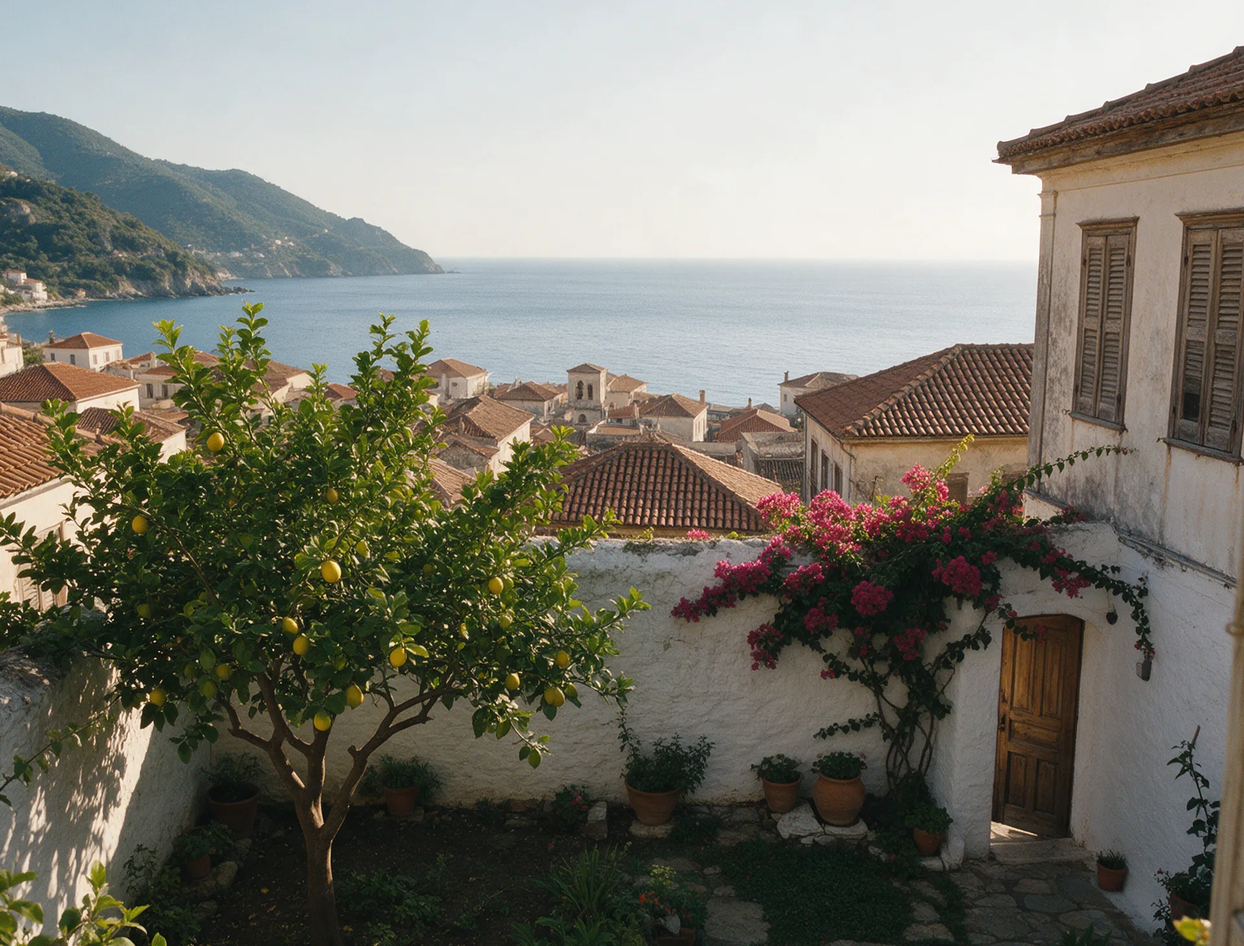
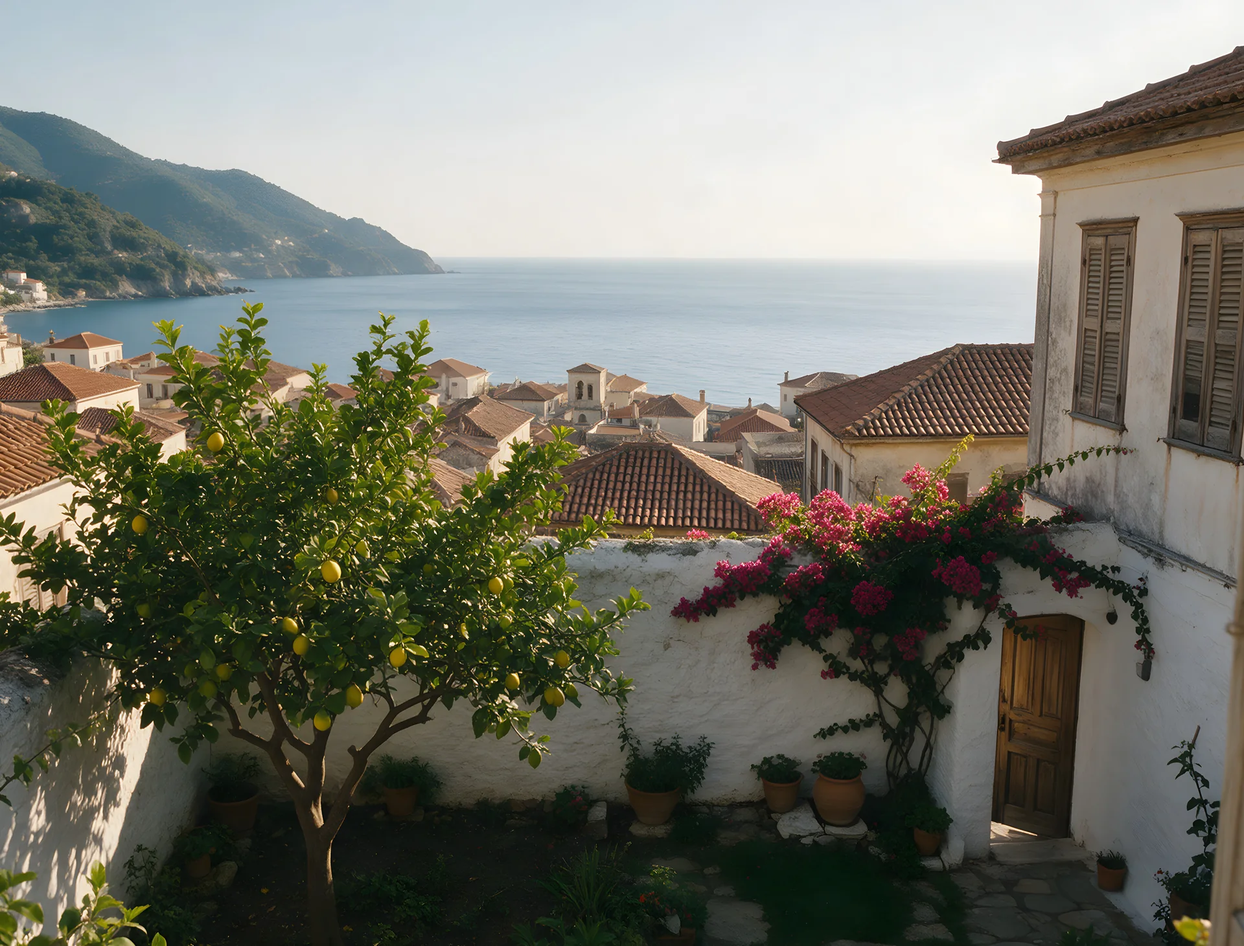
Redesign: smoother, slower window scenes and a 4K view
- 07:00 act 4.2 to 5.6 vh, 22:00 act 1.7 to 2.8 vh
- Sine easing, and the shutters and push follow a time-smoothed progress
  so each scroll notch glides instead of stepping
- Hero view upscaled to 3840 px (Recraft Crisp Upscale); 1920 px for
  small low-density screens; night view regraded from the 4K source

diff --git a/index.html b/index.html
@@ -13,6 +13,7 @@
 <link href="https://fonts.googleapis.com/css2?family=Cormorant+Garamond:ital,wght@0,300;0,400;0,500;1,300;1,400&family=Jost:wght@300;400;500;600&family=Noto+Serif+Display:ital,wght@0,300;0,400;1,300;1,400&family=Manrope:wght@300;400;500;600&display=swap" rel="stylesheet">
 <link rel="preload" as="image" href="assets/window-bare.webp" media="(min-aspect-ratio: 9/10)">
 <link rel="preload" as="image" href="assets/window-bare-p.webp" media="(max-aspect-ratio: 9/10)">
+<link rel="preload" as="image" href="assets/view-4k.webp" media="(min-width: 861px), (min-resolution: 1.5dppx)">
 <link rel="stylesheet" href="scrollcraft.css">
 <style>
   /* Brand guidelines, not taste: Warm White ground, Estate Brown titles,
@@ -131,6 +132,13 @@
     background: center / cover no-repeat;
     will-change: transform;
   }
+  /* 4K by default; small, low-density screens get the 1920 file */
+  .rig__view--day   { background-image: url(assets/view-4k.webp); }
+  .rig__view--night { background-image: url(assets/view-night-4k.webp); }
+  @media (max-width: 860px) and (max-resolution: 1.5dppx) {
+    .rig__view--day   { background-image: url(assets/view.webp); }
+    .rig__view--night { background-image: url(assets/view-night.webp); }
+  }
   .rig {
     position: absolute; left: 0; top: 0; z-index: 2;
     transform-origin: 0 0; will-change: transform, opacity;
@@ -179,7 +187,7 @@
     box-shadow: var(--sc-e2);
     /* driven off the act's progress, not a cue: it is the ground under the
        line, so it arrives before the text and leaves after it */
-    opacity: min(clamp(0, calc((var(--sc-p, 0) - 0.62) * 14), 1), clamp(0, calc((1 - var(--sc-p, 0)) * 25), 1));
+    opacity: min(clamp(0, calc((var(--sc-p, 0) - 0.68) * 14), 1), clamp(0, calc((1 - var(--sc-p, 0)) * 25), 1));
   }
   @media (prefers-reduced-motion: reduce) { .hero__plate { opacity: 1; } }
   .hero__beat-text { position: relative; z-index: 1; }
@@ -413,9 +421,9 @@
   <!-- 07:00 · FIRST LIGHT. The peak. Closed shutters, then they open under
        the hand and the room gives way to the garden and the sea. -->
   <section id="first-light" data-room-key="room.first" class="hero" data-hour="07:00"
-           data-sc-act="pin" data-sc-span="4.2" data-sc-drift="#FAF7F2">
+           data-sc-act="pin" data-sc-span="5.6" data-sc-drift="#FAF7F2">
     <div data-sc-stage class="rig-stage" data-rig="open">
-      <div class="rig__view" style="background-image:url(assets/view.webp)" aria-hidden="true"></div>
+      <div class="rig__view rig__view--day" aria-hidden="true"></div>
       <div class="rig" aria-hidden="true">
         <div class="rig__leaves"><div class="leaf leaf--l"></div><div class="leaf leaf--r"></div></div>
         <picture class="rig__frame">
@@ -434,7 +442,7 @@
 
       <div class="hero__beat">
         <div class="hero__plate" aria-hidden="true"></div>
-        <div class="hero__beat-text" data-sc-cue="0.66 0.94 0.1 0.1">
+        <div class="hero__beat-text" data-sc-cue="0.72 0.96 0.08 0.08">
           <span class="hour" data-i18n="beat.hour">Karlovasi, morning</span>
           <p data-i18n="beat.line">The garden first, then the sea.</p>
         </div>
@@ -557,9 +565,9 @@
 
   <!-- 22:00 · GOOD NIGHT. The shutters close again. -->
   <section id="night" data-room-key="room.night" class="night" data-hour="22:00" data-ground="night"
-           data-sc-act="pin" data-sc-span="1.7">
+           data-sc-act="pin" data-sc-span="2.8">
     <div data-sc-stage class="rig-stage" data-rig="close">
-      <div class="rig__view" style="background-image:url(assets/view-night.webp)" aria-hidden="true"></div>
+      <div class="rig__view rig__view--night" aria-hidden="true"></div>
       <div class="rig" aria-hidden="true">
         <div class="rig__leaves"><div class="leaf leaf--l"></div><div class="leaf leaf--r"></div></div>
         <picture class="rig__frame">
@@ -662,7 +670,8 @@
 
   var clamp = function (v, a, b) { return Math.min(b, Math.max(a, v)); };
   var seg = function (p, a, b) { return clamp((p - a) / (b - a), 0, 1); };
-  var ease = function (t) { return t < .5 ? 4 * t * t * t : 1 - Math.pow(-2 * t + 2, 3) / 2; };
+  /* sine in-out: gentle at both ends, no sudden middle */
+  var ease = function (t) { return -(Math.cos(Math.PI * t) - 1) / 2; };
 
   function Rig(stage) {
     this.stage = stage;
@@ -702,18 +711,26 @@
     this.last = -1;
   };
   Rig.prototype.frame = function () {
-    var p = parseFloat(this.act.style.getPropertyValue('--sc-p')) || 0;
-    if (reduce) p = this.mode === 'open' ? 0.5 : 0.8;   /* a still, complete composition */
-    if (Math.abs(p - this.last) < 0.0004) return;
+    var target = parseFloat(this.act.style.getPropertyValue('--sc-p')) || 0;
+    if (reduce) target = this.mode === 'open' ? 0.5 : 0.8;   /* a still, complete composition */
+    /* The scroll arrives in notches. Ease the drawn progress toward it
+       (time-based, ~0.2s to settle) so the shutters and the push glide. */
+    var now = performance.now(), dt = Math.min(64, now - (this.t || now));
+    this.t = now;
+    if (this.sp === undefined || reduce || Math.abs(target - this.sp) > 0.35) this.sp = target;
+    else this.sp += (target - this.sp) * (1 - Math.exp(-dt / 110));
+    if (Math.abs(target - this.sp) < 0.0002) this.sp = target;
+    var p = this.sp;
+    if (Math.abs(p - this.last) < 0.0002) return;
     this.last = p;
     var g = this.g, open, push, fade;
 
     if (this.mode === 'open') {
-      open = ease(seg(p, 0.10, 0.50));          /* shutters swing out */
-      push = reduce ? 0 : ease(seg(p, 0.40, 0.92));  /* step through the window */
-      fade = reduce ? 0 : seg(p, 0.70, 0.90);   /* the near wall passes the viewer */
+      open = ease(seg(p, 0.07, 0.50));          /* shutters swing out */
+      push = reduce ? 0 : ease(seg(p, 0.44, 0.95));  /* step through the window */
+      fade = reduce ? 0 : ease(seg(p, 0.72, 0.94));  /* the near wall passes the viewer */
     } else {
-      open = 1 - ease(seg(p, 0.08, 0.62));      /* shutters swing shut */
+      open = 1 - ease(seg(p, 0.06, 0.74));      /* shutters swing shut */
       push = 0; fade = 0;
     }
 
